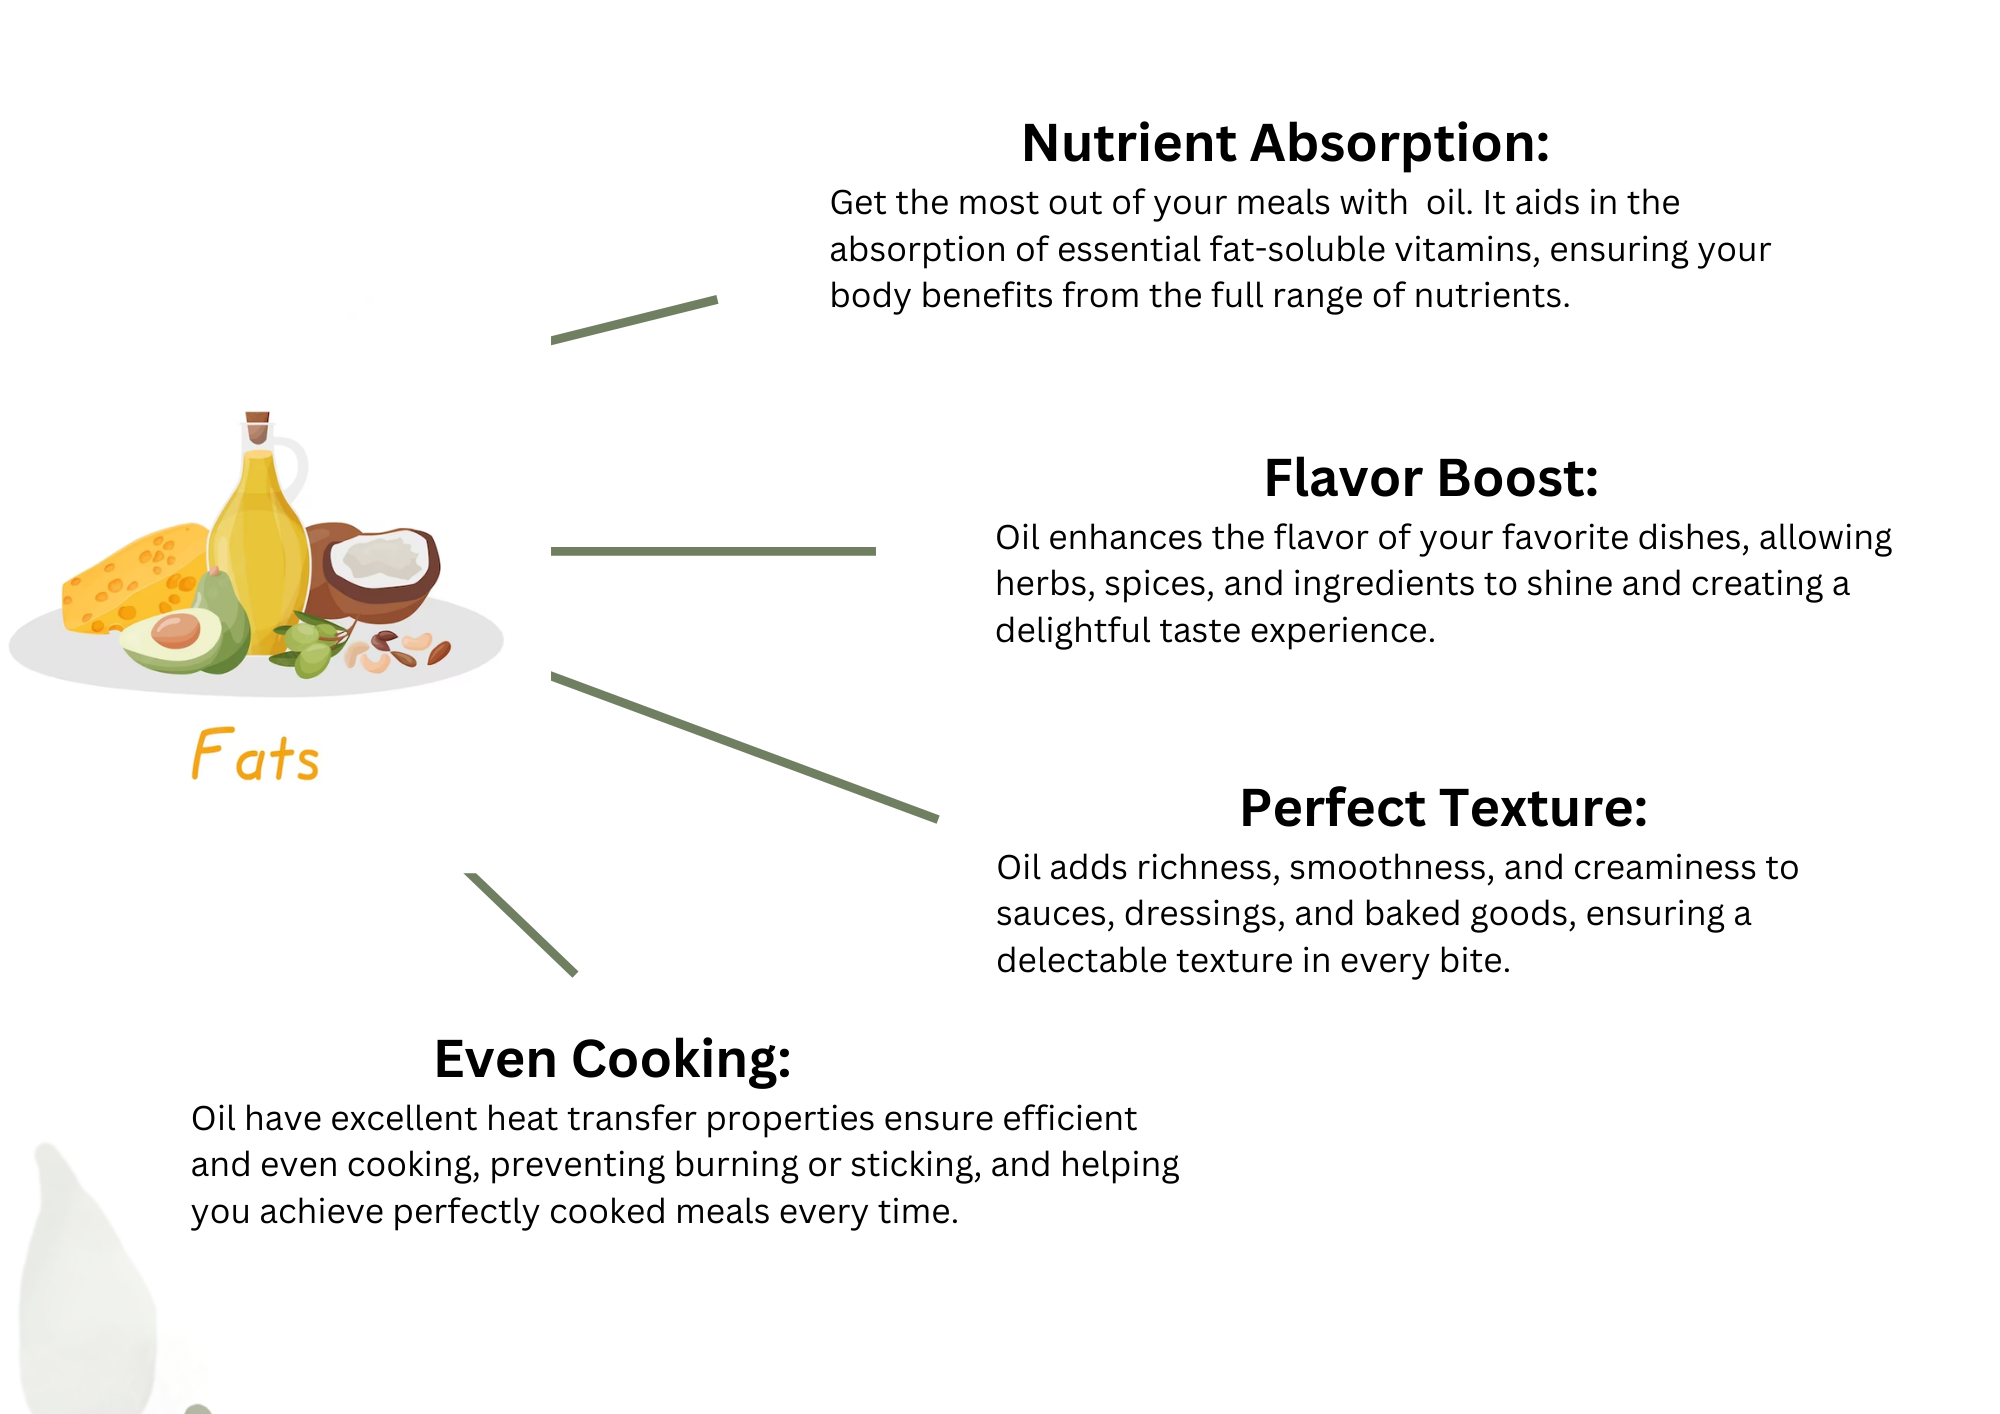
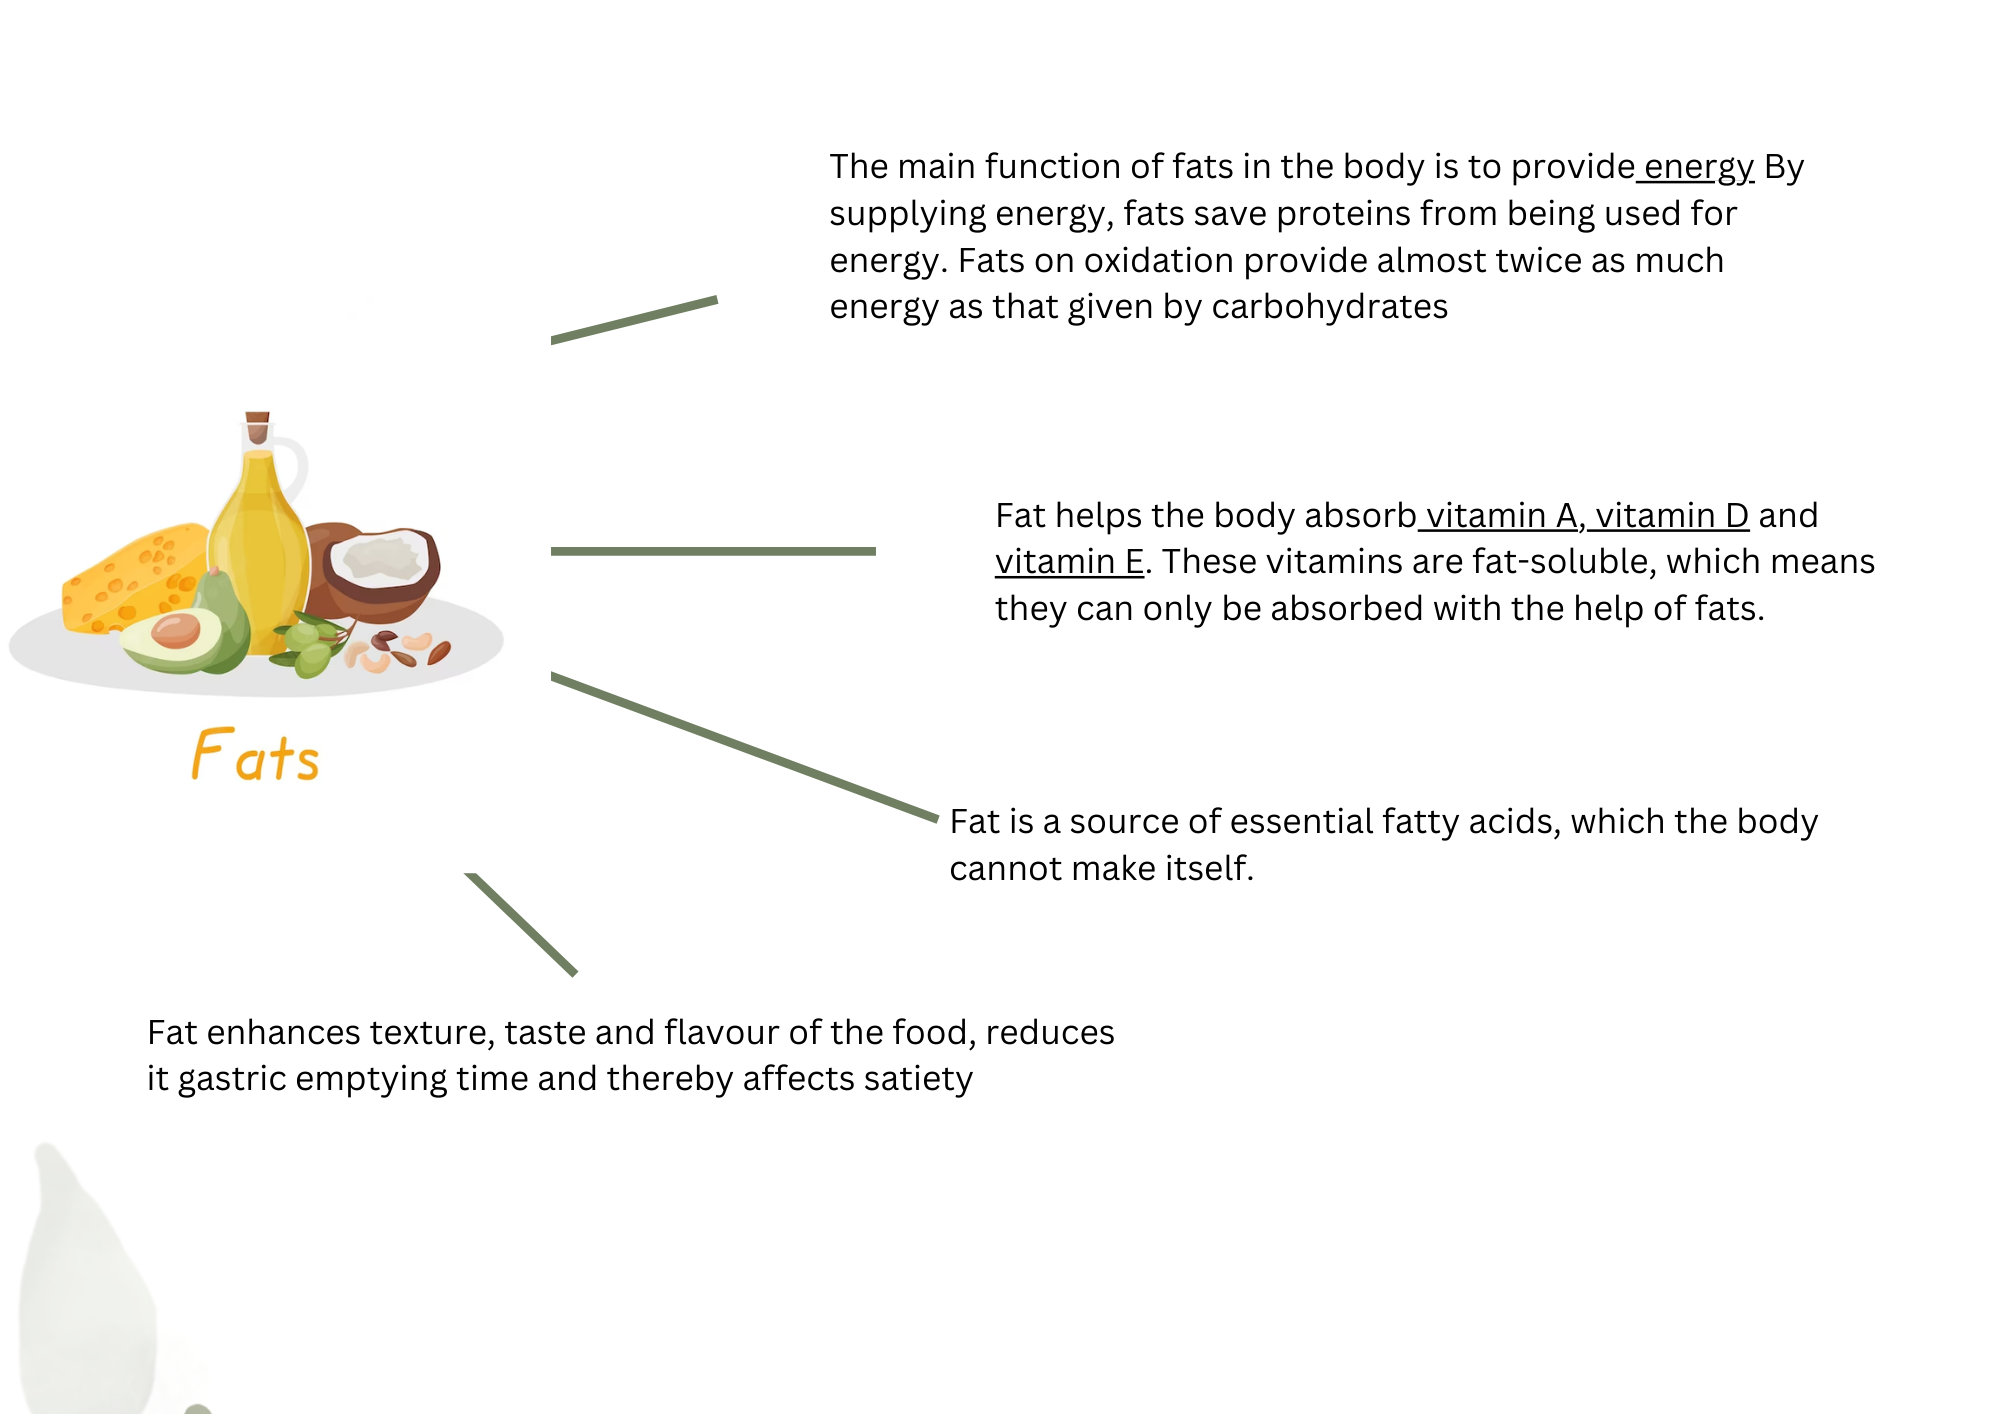
Design changes

diff --git a/src/components/navbar.tsx b/src/components/navbar.tsx
@@ -20,7 +20,7 @@ const Navbar = () => {
             <Image
               src={Logo}
               alt=""
-              className="h-44 w-44"
+              className="h-20 w-20"
               height={0}
               width={0}
             />
@@ -35,21 +35,21 @@ const Navbar = () => {
             Home
           </Link>
           <Link
-            href="#Testimonials"
+            href="#Process"
             className={
               'mx-5 my-2 lg:my-0  font-Oswald  text-[20px] p-1 bg-transparent rounded hover:text-yellow-300'
             }>
             Our Process
           </Link>
           <Link
-            href="#Testimonials"
+            href="#Products"
             className={
               'mx-5 my-2 lg:my-0  font-Oswald  text-[20px] p-1 bg-transparent rounded hover:text-yellow-300'
             }>
             Our Products
           </Link>
           <Link
-            href=""
+            href="#FAQ"
             className={
               'mx-5 my-2 lg:my-0  font-Oswald  text-[20px] p-1 bg-transparent rounded hover:text-yellow-300'
             }>
@@ -74,7 +74,7 @@ const Navbar = () => {
             {isOpen && (
               <div className="absolute right-0 mt-2 py-2 w-48 bg-white rounded-lg shadow-xl z-20">
                 <Link
-                  href="#Testimonials"
+                  href="/"
                   className={
                     'mx-5 my-2 lg:my-0  font-Oswald  text-[20px] p-1 bg-transparent rounded hover:text-yellow-300'
                   }>
@@ -82,21 +82,21 @@ const Navbar = () => {
                 </Link>
 
                 <Link
-                  href="#Testimonials"
+                  href="#Process"
                   className={
                     'mx-5 my-2 lg:my-0  font-Oswald  text-[20px] p-1 bg-transparent rounded hover:text-yellow-300'
                   }>
                   Our Process
                 </Link>
                 <Link
-                  href="#Testimonials"
+                  href="#Products"
                   className={
                     'mx-5 my-2 lg:my-0  font-Oswald  text-[20px] p-1 bg-transparent rounded hover:text-yellow-300'
                   }>
                   Our Products
                 </Link>
                 <Link
-                  href="#Testimonials"
+                  href="#FAQ"
                   className={
                     'mx-5 my-2 lg:my-0  font-Oswald  text-[20px] p-1 bg-transparent rounded hover:text-yellow-300'
                   }>
@@ -105,7 +105,7 @@ const Navbar = () => {
               </div>
             )}
           </div>
-          <Link href="#footer">
+          <Link href="#Contact">
             <button className="hidden lg:block px-2 py-1 mr-2 bg-yellow-300 whitespace-nowrap  rounded text-white font-Oswald font-semibold text-[20px] hover:text-yellow-300 hover:bg-white hover:border-2 hover:border-yellow-300">
               Contact Us
             </button>

diff --git a/src/components/Oil.tsx b/src/components/Oil.tsx
@@ -8,7 +8,7 @@ const Oil = () => {
 
   useEffect(() => {
     const handleResize = () => {
-      setIsMobile(window.innerWidth <= 1280);
+      setIsMobile(window.innerWidth <= 1200);
     };
 
     handleResize();
@@ -46,36 +46,16 @@ const Oil = () => {
             />
             <div>
               <h1 className="text-[24px] text-justify">
-                <span className="text-[28px] font-semibold mx-auto ">
-                  Nutrient Absorption:
-                </span>
-                Get the most out of your meals with oil. It aids in the
-                absorption of essential fat-soluble vitamins, ensuring your body
-                benefits from the full range of nutrients.
+ The main function of fats in the body is to provide energy By supplying energy, fats save proteins from being used for energy. Fats on oxidation provide almost twice as much energy as that given by carbohydrates.
               </h1>
               <h1 className="text-[24px] text-justify">
-                <span className="text-[28px] font-semibold mx-auto ">
-                  Flavor Boost:
-                </span>
-                Oil enhances the flavor of your favorite dishes, allowing herbs,
-                spices, and ingredients to shine and creating a delightful taste
-                experience.
+                Fat helps the body absorb vitamin A, vitamin D and vitamin E. These vitamins are fat-soluble, which means they can only be absorbed with the help of fats.
               </h1>
               <h1 className="text-[24px] text-justify">
-                <span className="text-[28px] font-semibold mx-auto ">
-                  Perfect Texture:
-                </span>
-                Oil adds richness, smoothness, and creaminess to sauces,
-                dressings, and baked goods, ensuring a delectable texture in
-                every bite.
+                Fat is a source of essential fatty acids, which the body cannot make itself.
               </h1>
               <h1 className="text-[24px] text-justify">
-                <span className="text-[28px] font-semibold mx-auto ">
-                  Even Cooking:
-                </span>
-                Oil&apos;s have excellent heat transfer properties ensure efficient
-                and even cooking, preventing burning or sticking, and helping
-                you achieve perfectly cooked meals every time.
+                Fat enhances texture, taste and flavour of the food, reduces it gastric emptying time and thereby affects satiety
               </h1>
             </div>
           </div>

diff --git a/src/pages/home.tsx b/src/pages/home.tsx
@@ -9,9 +9,58 @@ import Process from '@components/Process';
 import FAQ from '@components/FAQ';
 import Products from '@components/Products';
 import ContactForm from '@components/Contact';
+import { useEffect,useState } from 'react';
+import logo from '../../public/Images/logo.jpg';
+import Image from 'next/image';
 export default function Home() {
+  const [isLoading, setIsLoading] = useState(true);
+
+  useEffect(() => {
+    // Simulate a delay of 2 seconds
+    const loadingTimeout = setTimeout(() => {
+      setIsLoading(false);
+    }, 5000);
+
+    return () => {
+      clearTimeout(loadingTimeout);
+    };
+  }, []);
   return (
+   
     <div>
+       {isLoading ? (
+        // Loading animation and logo here
+        <div
+        className="absolute bottom-0 left-0 right-0 transform -translate-y-1/2 flex justify-center items-center bg-white z-50"
+        style={{ minHeight: '200px' }}
+      >
+        <style>
+          {`
+            @keyframes slideUp {
+              0% {
+                transform: translateY(100%);
+              }
+              100% {
+                transform: translateY(0);
+              }
+            }
+  
+            .slide-up {
+              animation: slideUp 5s ease-in-out forwards; // Increased animation duration to 1 second
+            }
+          `}
+        </style>
+        <Image
+          src={logo}
+          alt="Logo"
+          className="h-96 w-96 slide-up" // Add the 'slide-up' class here
+          height={0}
+          width={0}
+        />
+      </div>
+      
+      ) : (
+        <>
       <Navbar />
       <Hero />
       <Oil />
@@ -22,6 +71,9 @@ export default function Home() {
       <Products />
       <FAQ />
       <ContactForm />
+      </>
+      )}
     </div>
   );
 }
+

diff --git a/src/components/hero.tsx b/src/components/hero.tsx
@@ -93,32 +93,32 @@ const Hero = () => {
                 width={0}
                 className="h-[512px] w-[512px]"
               />
-              <div className="w-[900px] p-10">
+              <div className="w-[900px] p-5">
                 <h1 className="font-bold text-[40px] flex justify-center border-b-2 border-white">
                   {item.mainHeading}
                 </h1>
                 <h2 className="text-[#3C5606] font-semibold text-[32px] text-justify">
                   {item.q1}
                 </h2>
-                <h2 className="font-semibold text-[20px] text-justify">
+                <h2 className="font-semibold text-[16px] text-justify">
                   {item.a1}
                 </h2>
                 <h2 className="text-[#3C5606] font-semibold text-[32px] text-justify">
                   {item.q2}
                 </h2>
-                <h2 className="font-semibold text-[20px] text-justify">
+                <h2 className="font-semibold text-[16px] text-justify">
                   {item.a2}
                 </h2>
                 <h2 className="text-[#3C5606] font-semibold text-[32px]">
                   {item.q3}
                 </h2>
-                <h2 className="font-semibold text-[20px] text-justify">
+                <h2 className="font-semibold text-[16px] text-justify">
                   {item.a3}
                 </h2>
                 <h2 className="text-[#3C5606] font-semibold text-[32px] text-justify">
                   {item.q4}
                 </h2>
-                <h2 className="font-semibold text-[20px] text-justify">
+                <h2 className="font-semibold text-[16px] text-justify">
                   {item.a4}
                 </h2>
               </div>

diff --git a/src/components/Process.tsx b/src/components/Process.tsx
@@ -82,7 +82,7 @@ const Process = () => {
     return () => window.removeEventListener('resize', handleResize);
   }, []);
   return (
-    <div>
+    <div id='Process'>
       <div>
         <h1 className="border-b-2 border-[#FFD708] font-semibold text-[40px] inline-block m-5">
           How are we helping with this?

diff --git a/src/components/FAQ.tsx b/src/components/FAQ.tsx
@@ -31,7 +31,7 @@ const FAQ = () => {
   ];
 
   return (
-    <div>
+    <div id='FAQ'>
       <h1 className="border-b-2 border-[#FFD708] font-semibold text-[40px] inline-block m-5">
         Frequently Asked Questions
       </h1>

diff --git a/src/components/Ghani.tsx b/src/components/Ghani.tsx
@@ -9,7 +9,7 @@ const Ghani = () => {
 
   useEffect(() => {
     const handleResize = () => {
-      setIsMobile(window.innerWidth <= 1280);
+      setIsMobile(window.innerWidth <= 1200);
     };
 
     handleResize();

diff --git a/src/components/Fats.tsx b/src/components/Fats.tsx
@@ -9,7 +9,7 @@ const Fats = () => {
 
   useEffect(() => {
     const handleResize = () => {
-      setIsMobile(window.innerWidth <= 1280);
+      setIsMobile(window.innerWidth <= 1200);
     };
 
     handleResize();
